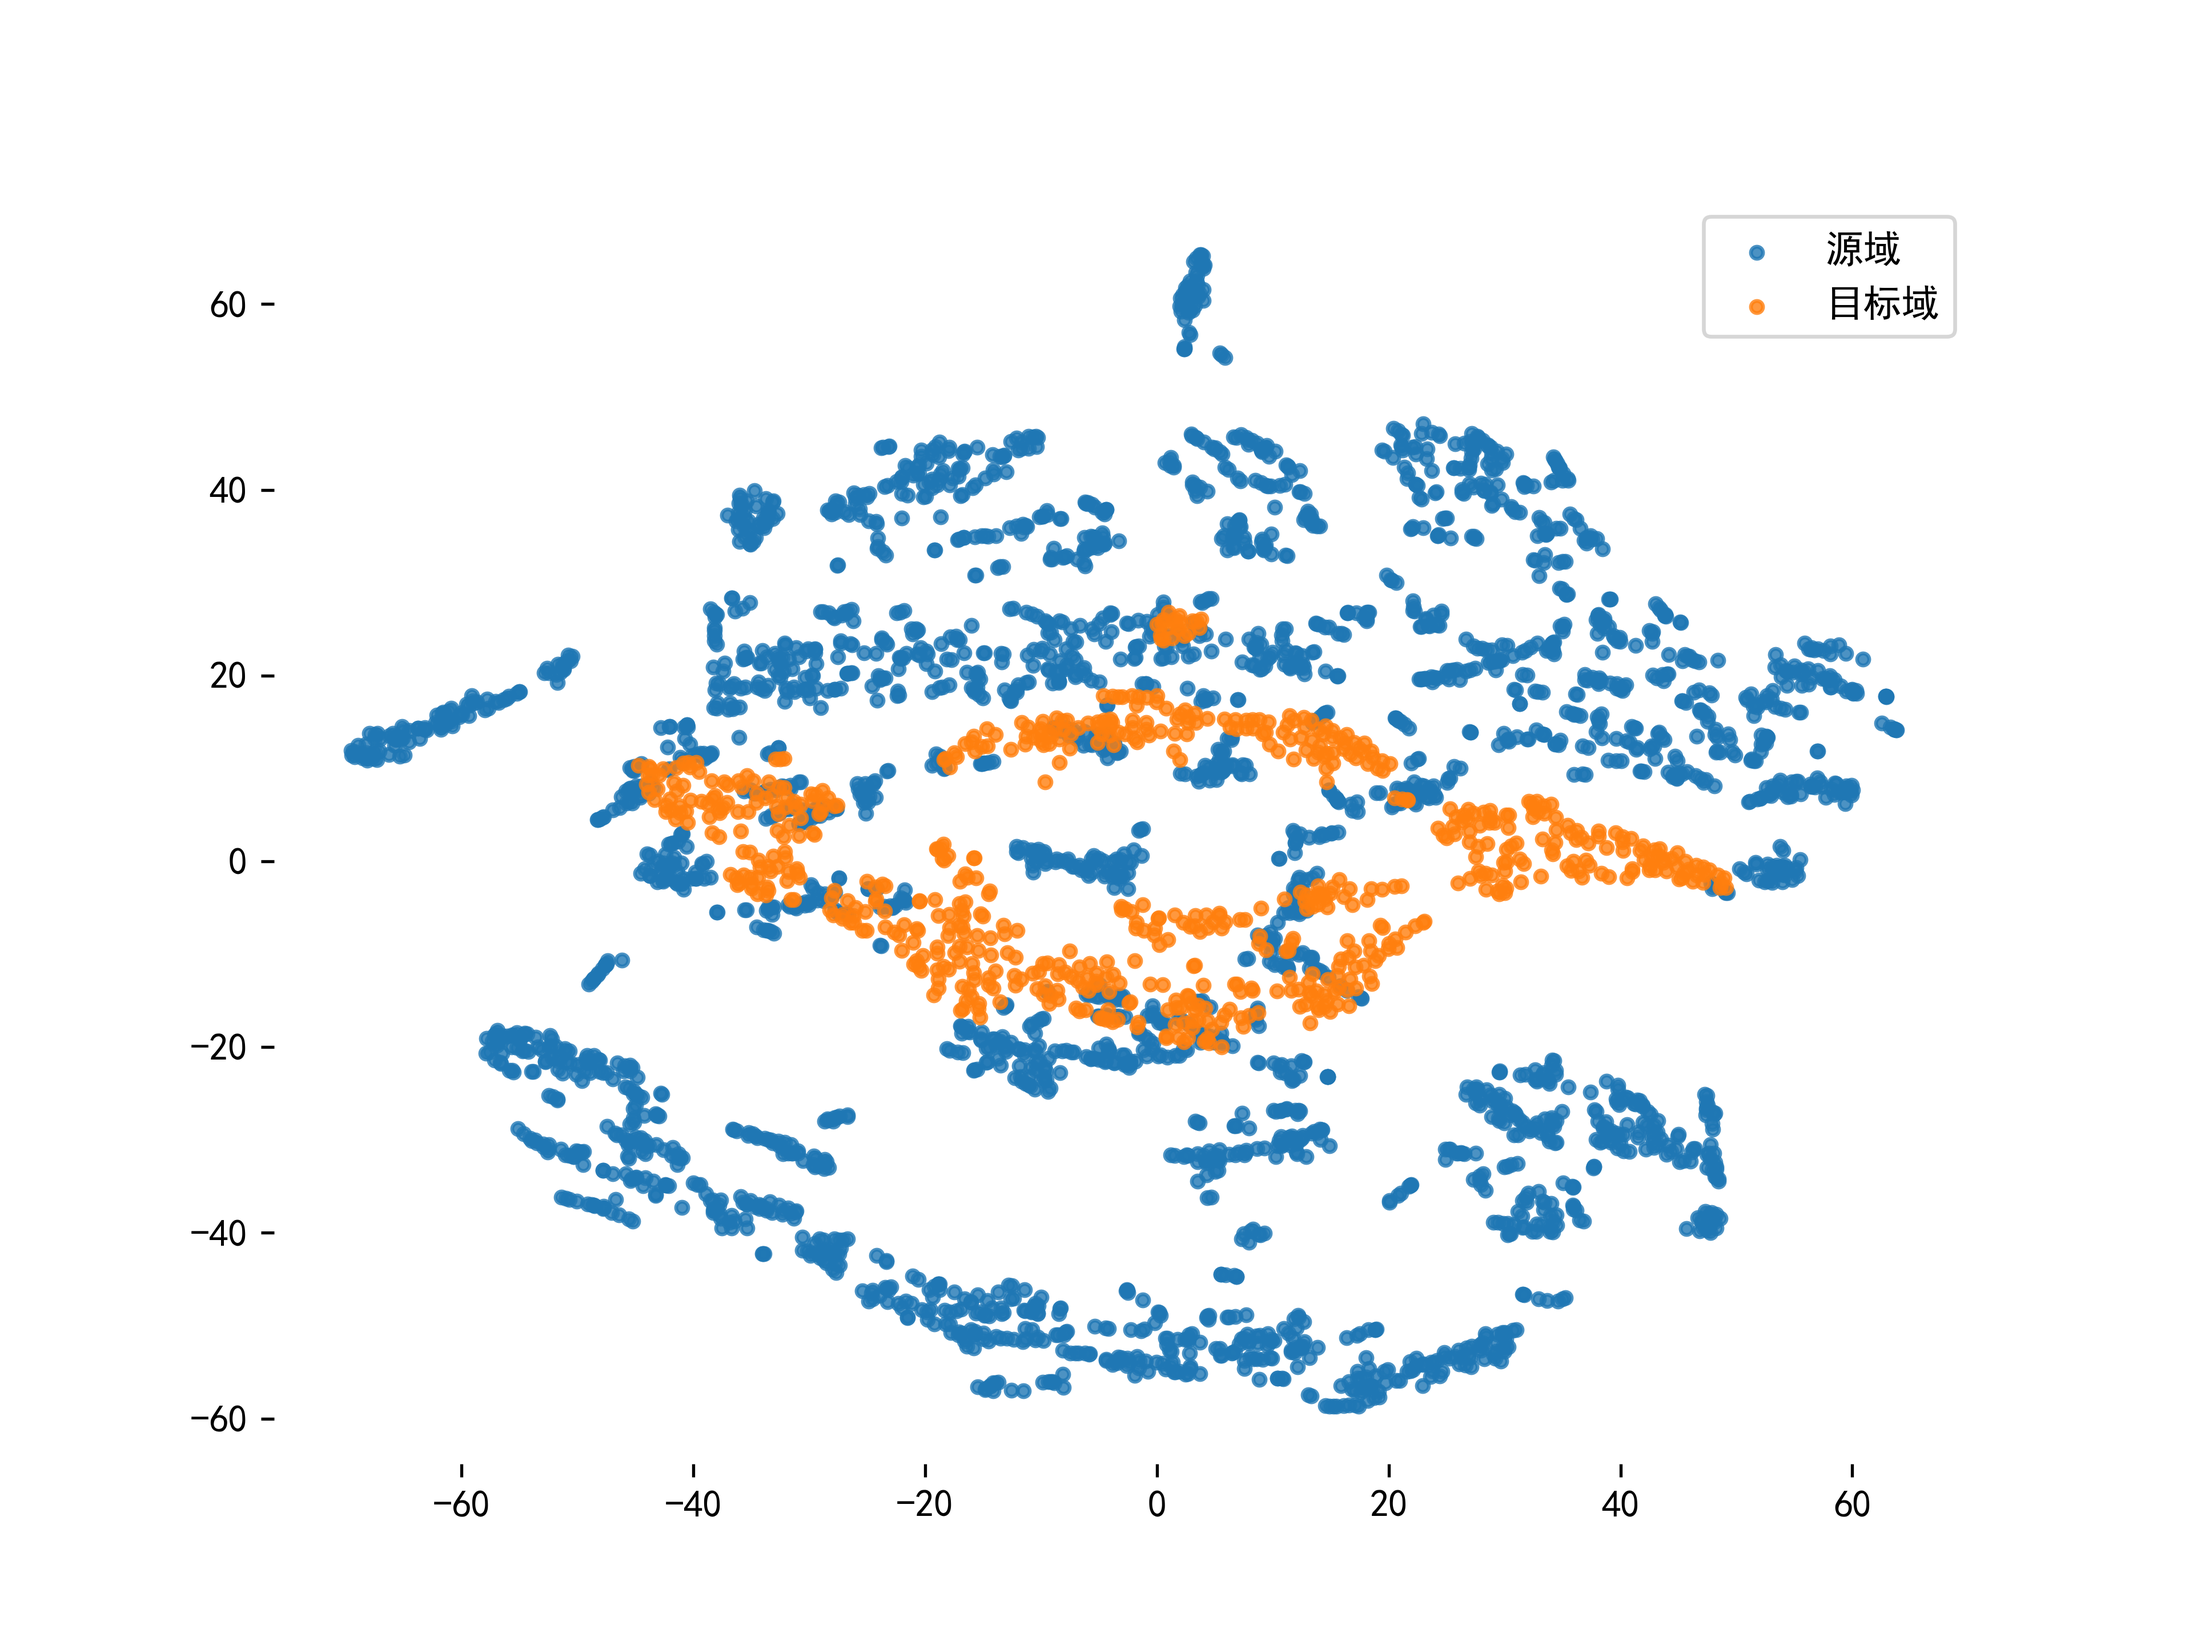
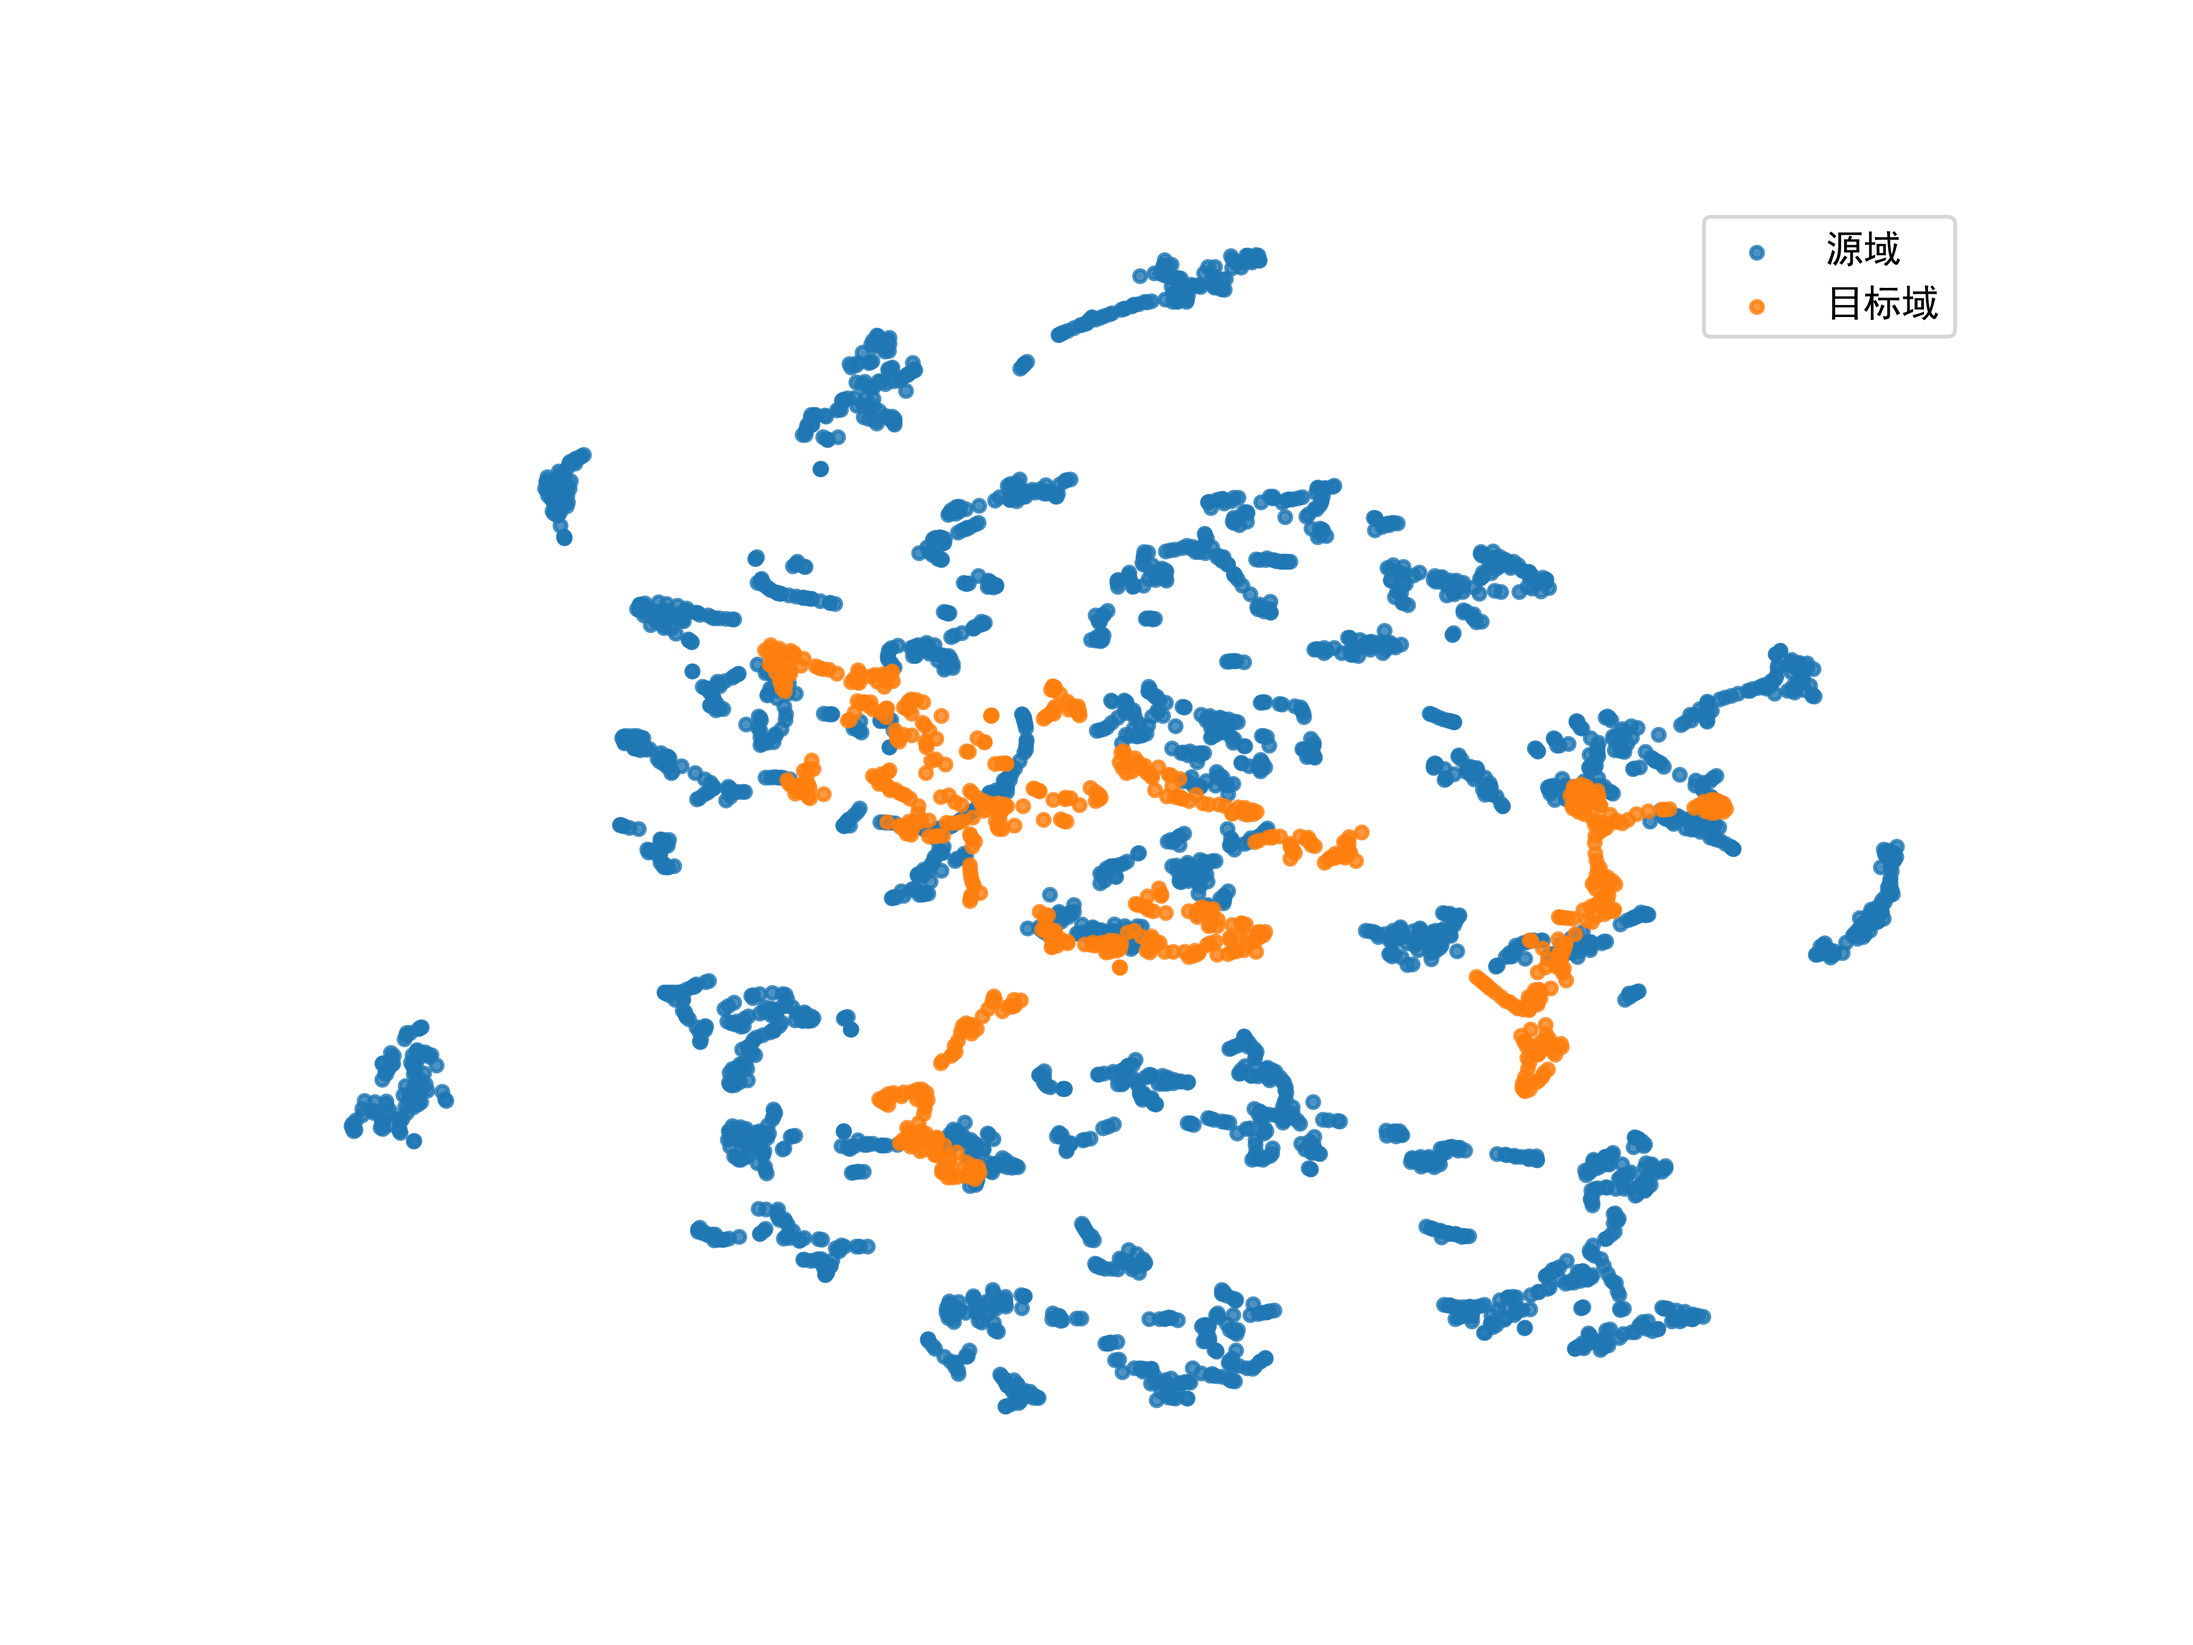
域适应绘图

diff --git a/src/adaption visualization_FSDANN.py b/src/adaption visualization_FSDANN.py
@@ -70,13 +70,13 @@ if __name__ == '__main__':
         (pred_src, domain_pred_src, src_domain_class, _, src_private_pred, _,
          shared_feature, src_private_feature, _) = model(x_src, y_src_prev, 0.5)
         # cat
-        src_features = torch.cat((src_features, src_private_feature), 0)
+        src_features = torch.cat((src_features, shared_feature), 0)
     for i, (x_tar, y_tar_prev, y_tar_true) in test_data_trg:
         x_tar, y_tar_prev, y_tar_true = x_tar.to(device), y_tar_prev.to(device), y_tar_true.to(device)
         (pred_tar, domain_pred_tar, _, tar_domain_class, _, tar_private_pred,
          shared_feature, _, tar_private_feature) = model(x_tar, y_tar_prev, 0.5)
         # cat
-        tar_features = torch.cat((tar_features, tar_private_feature), 0)
+        tar_features = torch.cat((tar_features, shared_feature), 0)
 
     # hook.remove()
     # 提取源域和目标域的特征
@@ -121,5 +121,7 @@ if __name__ == '__main__':
     ax.spines['right'].set_visible(False)
     ax.spines['bottom'].set_visible(False)
     ax.spines['left'].set_visible(False)
+    ax.axis('off')
+
     plt.savefig('../plots/feature_distribution_before_domain_adaptation.png')
     plt.show()

diff --git a/src/main_FSDANN.py b/src/main_FSDANN.py
@@ -97,9 +97,8 @@ def train(args):
                 loss_pred_shared = (criterion_pred_src(pred_src, y_src_true) + criterion_pred_tar(pred_tar,
                                                                                                   y_tar_true)) / 2
                 loss_orth = orthogonality_loss(shared_feature, src_private_feature, tar_private_feature)
-                loss_cls_private = (criterion_cls_src(src_domain_class, one_tensor) + criterion_cls_tar(
-                    tar_domain_class,
-                    zero_tensor)) / 2
+                loss_cls_private = (criterion_cls_src(src_domain_class, one_tensor) +
+                                    criterion_cls_tar(tar_domain_class, zero_tensor)) / 2
                 loss_pre_private = criterion_pred_tar_private(tar_private_pred, y_tar_true)
                 loss_pred = loss_pred_shared + loss_pre_private
                 loss = loss_pred - LAMBDA * (loss_dis) + (

diff --git a/src/FSDANN.py b/src/FSDANN.py
@@ -101,8 +101,8 @@ class FS_DANN(nn.Module):
         src_domain_class = self.domain_classifier(src_private_feature.view(shared_feature.size(0), -1))
         tar_domain_class = self.domain_classifier(tar_private_feature.view(shared_feature.size(0), -1))
 
-        src_private_pred = self.private_regressor(src_private_feature.view(shared_feature.size(0), -1))
-        tar_private_pred = self.private_regressor(tar_private_feature.view(shared_feature.size(0), -1))
+        src_private_pred = self.private_regressor(src_private_feature.view(src_private_feature.size(0), -1))
+        tar_private_pred = self.private_regressor(tar_private_feature.view(tar_private_feature.size(0), -1))
 
         # Classification: Forward pass through the final task classifier
         val_pred = self.shared_regressor(shared_feature.view(shared_feature.size(0), -1))

diff --git a/src/arguments.py b/src/arguments.py
@@ -30,7 +30,7 @@ def parse_args(custom_args:dict=None):
     parser.add_argument('--ntimestep', type=int, default=10, help='the number of time steps in the window T [10]')
 
     # Training parameters setting
-    parser.add_argument('--epochs', type=int, default=2, help='number of epochs to train [10, 200, 500]')
+    parser.add_argument('--epochs', type=int, default=200, help='number of epochs to train [10, 200, 500]')
     parser.add_argument('--lr', type=float, default=1e-3,
                         help='learning rate [0.001] reduced by 0.1 after each 10000 iterations')
     parser.add_argument('--seed', type=int, default=2025, help='random seed to use. Default=100')
